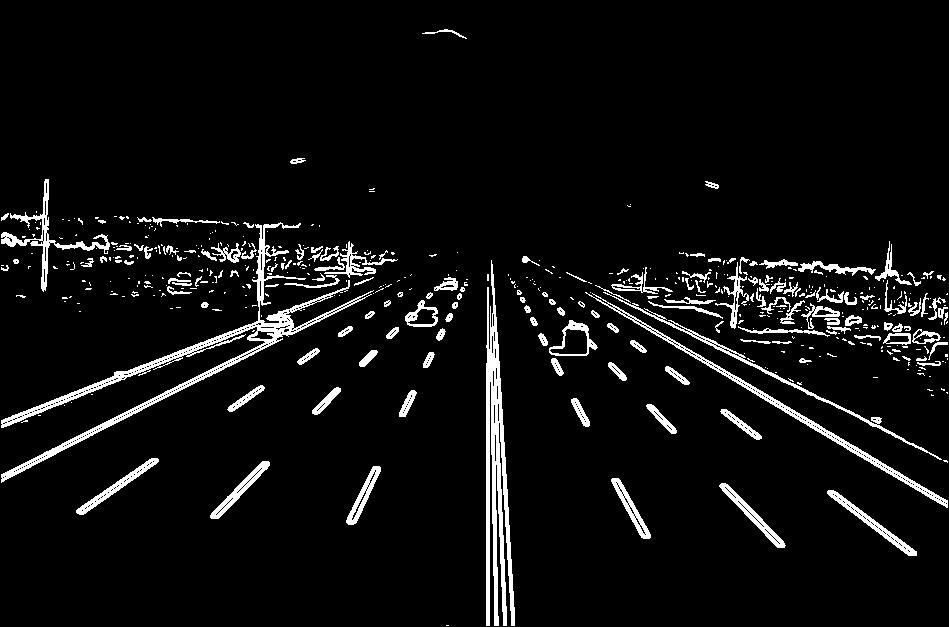
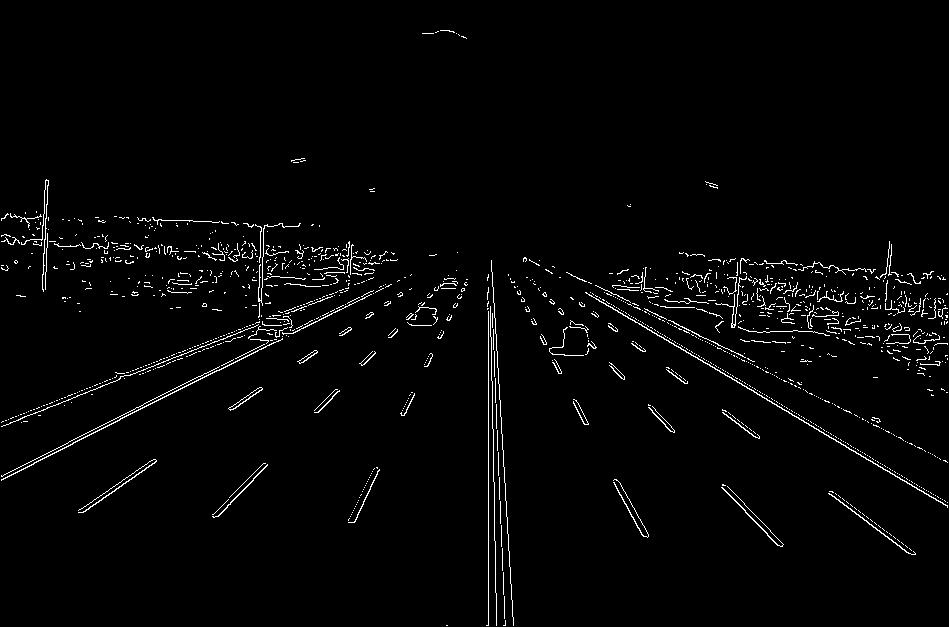
fix: use suppressed array for hysteresis thresholding

diff --git a/code/edge.py b/code/edge.py
@@ -213,7 +213,7 @@ if __name__ == '__main__':
     save_array_as_img(Gy, Gy_path)
     supressed_array = nonmax_suppress(G, Gx, Gy)
     save_array_as_img(supressed_array, supressed_G_path)
-    low, high, hyst = hysteresis_thresholding(G, 100, 200)
+    low, high, hyst = hysteresis_thresholding(supressed_array, 100, 200)
     save_array_as_img(low, edgemap_low_path)
     save_array_as_img(high, edgemap_high_path)
     save_array_as_img(hyst, edgemap_hyst_path)
